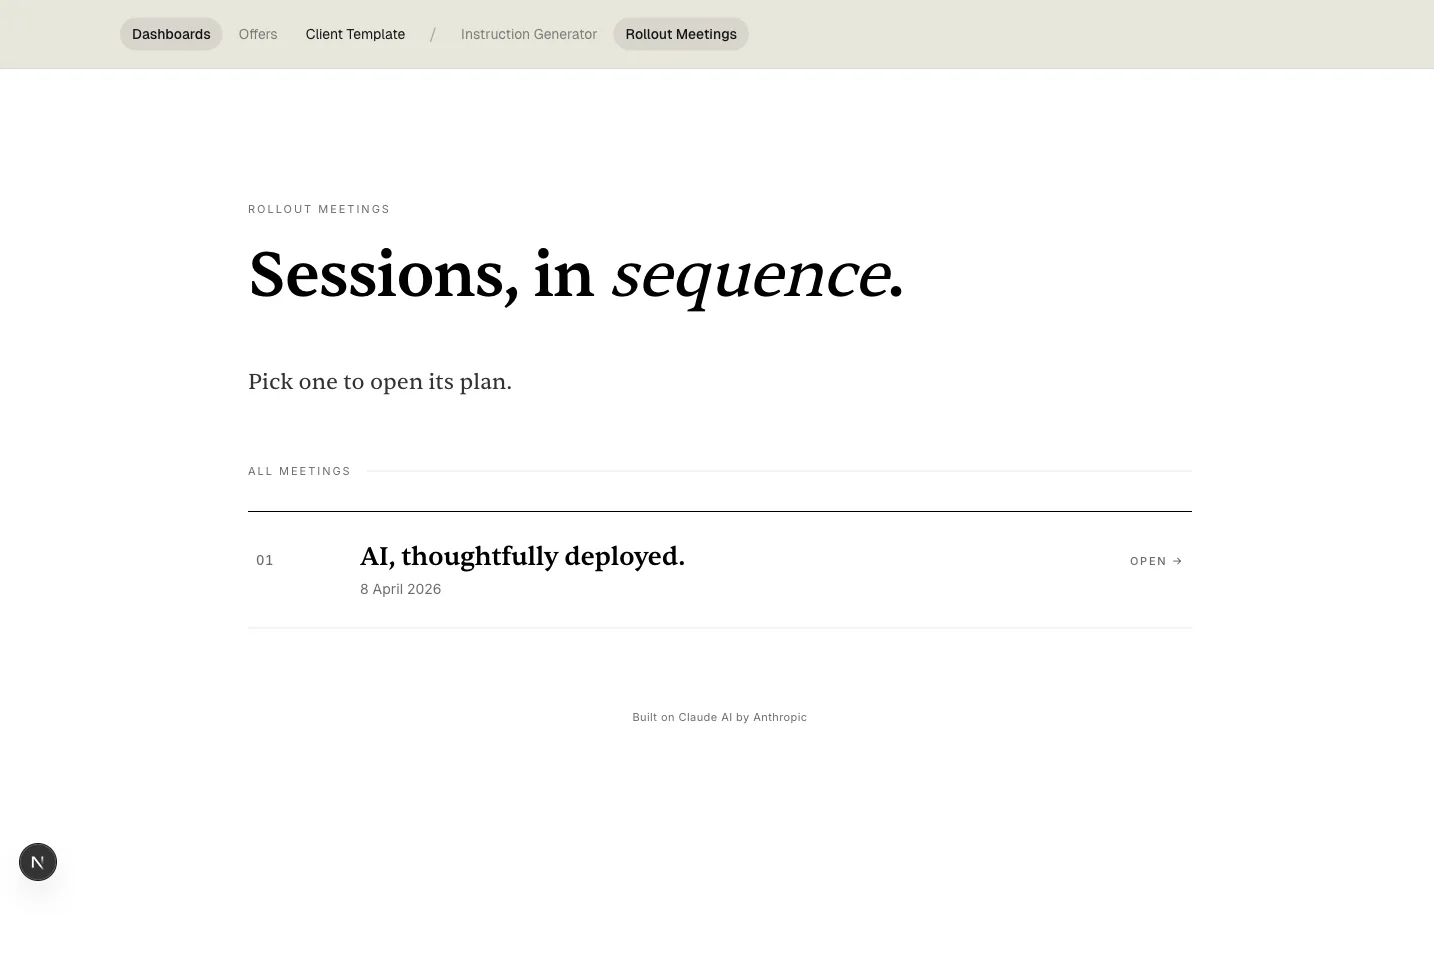
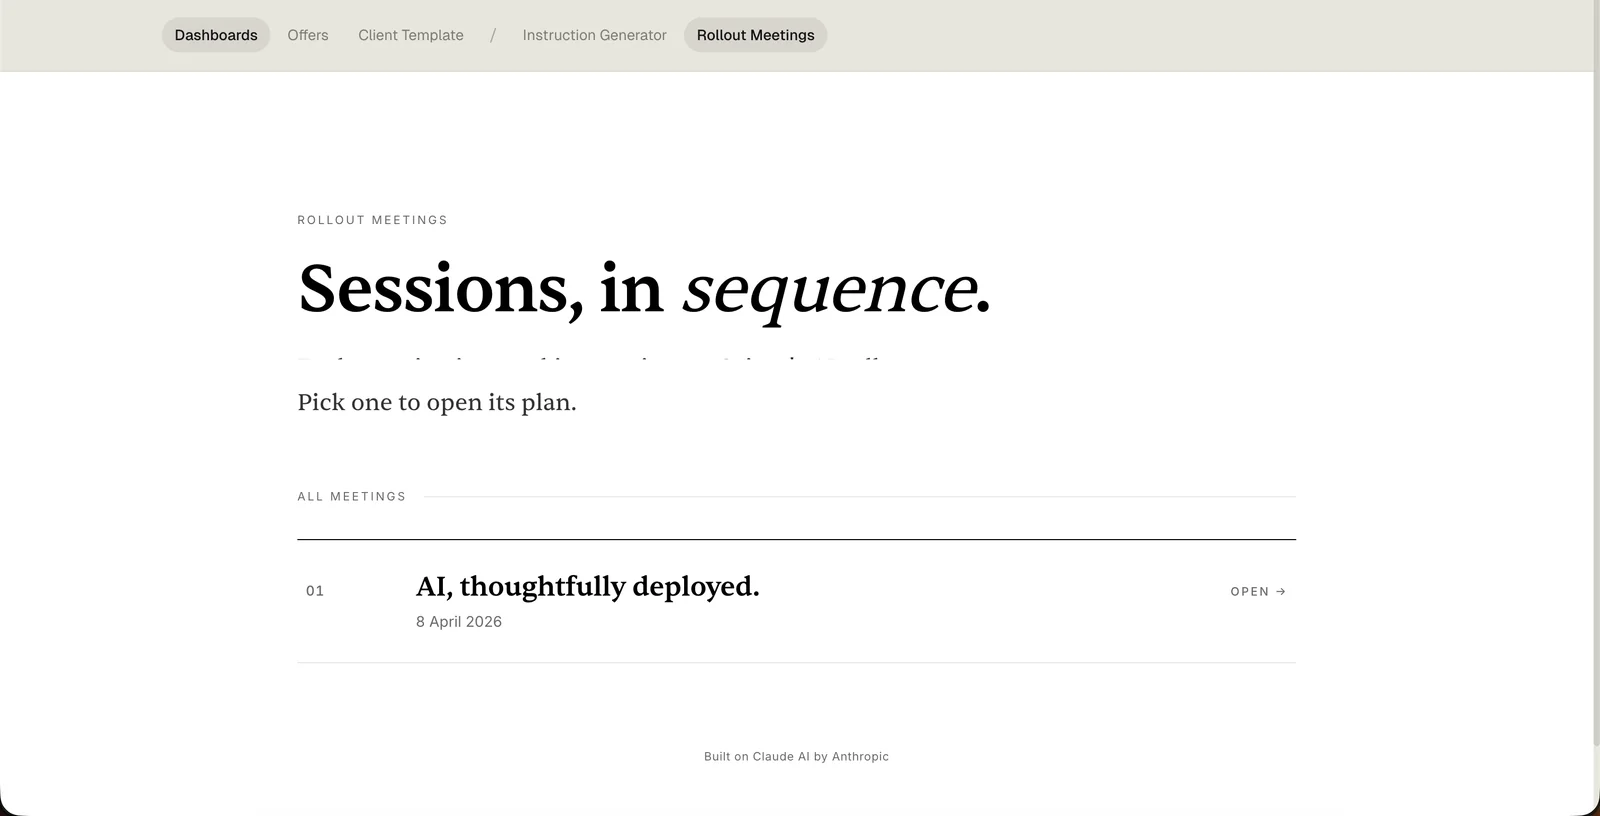
Blog: add dashboard zoom-out sequence to handover post
- Replace rollout-meetings.webp with a higher-resolution version (1600px,
  3x retina source) and tighten redactions on the Orient logo and the
  client mention in the lede.
- Add two new dashboard screenshots: dashboard-detail.webp (the rollout
  overview with stat cards and Skill Readiness chart) and
  dashboards-landing.webp (the all-clients index). All client names
  redacted to paper background.
- Restructure the closing "handover is the product" section to walk
  through the three zoom levels (meetings → rollout → all clients)
  before landing on the thesis paragraph.

diff --git a/src/app/blog/the-handover-plan/page.tsx b/src/app/blog/the-handover-plan/page.tsx
@@ -404,22 +404,70 @@ export default function Article() {
           <h2>The handover is the product</h2>
           <p>
             One last detail. The handover plan isn&apos;t a one-off Google
-            Doc. It lives inside our internal dashboard alongside every
-            other meeting we&apos;ve run for that client. Each entry is its
-            own working document. The index page has a single line at the
-            top that&apos;s the closest thing we have to a mission
-            statement: <em>Sessions, in sequence.</em>
+            Doc. It lives inside our internal dashboard, and the dashboard
+            has a few zoom levels worth showing. Bear with me &mdash; this
+            is the only place in the post I&apos;ll talk about the
+            machinery behind the meeting.
+          </p>
+          <p>
+            Zoom level one. Every client we run a handover for has their
+            own page that lists every meeting we&apos;ve had with them, in
+            order. Each row is its own working document. The headline at
+            the top is the closest thing we have to a mission statement:{" "}
+            <em>Sessions, in sequence.</em>
           </p>
 
           {/* eslint-disable-next-line @next/next/no-img-element */}
           <img
             src="/blog/rollout-meetings.webp"
-            alt="The Settle dashboard's Rollout Meetings index page, showing each handover meeting as its own entry in a sequenced list."
-            width={1434}
-            height={969}
+            alt="A client's Rollout Meetings index page inside the Settle dashboard. Headline: 'Sessions, in sequence.' One row listed: '01 — AI, thoughtfully deployed.' dated 8 April 2026."
+            width={1600}
+            height={816}
             loading="lazy"
             className="rounded-xl border border-[rgba(20,20,19,0.1)] my-10"
           />
+
+          <p>
+            Zoom level two. Each of those clients has a full rollout
+            dashboard underneath the meetings list. This is where we
+            track every use case, every project, every skill, every
+            blocker, every gap. The meeting plan I&apos;ve been describing
+            for the last 1,500 words is one tab in this thing. Everything
+            else &mdash; all the architecture and instruction work that
+            happens before handover day &mdash; lives here.
+          </p>
+
+          {/* eslint-disable-next-line @next/next/no-img-element */}
+          <img
+            src="/blog/dashboard-detail.webp"
+            alt="The Settle rollout dashboard for a client. Headline: 'AI Integration Rollout — Claude Enterprise deployment across 7 departments with 49 use cases.' Three large stat cards (20 Ready to Deploy, 23 Needs Work, 7 Blockers and Risks) above a Skill Readiness by Tier chart with four tier rows."
+            width={1600}
+            height={816}
+            loading="lazy"
+            className="rounded-xl border border-[rgba(20,20,19,0.1)] my-10"
+          />
+
+          <p>
+            Zoom level three. And those rollouts all live inside one
+            top-level index. New rollouts get added here. Old ones get
+            archived here. It&apos;s the &ldquo;all clients&rdquo; view I
+            open first thing in the morning to see what&apos;s in flight.
+          </p>
+
+          {/* eslint-disable-next-line @next/next/no-img-element */}
+          <img
+            src="/blog/dashboards-landing.webp"
+            alt="The Settle dashboards index. Headline: 'Dashboards, settled.' One client rollout listed below."
+            width={1600}
+            height={816}
+            loading="lazy"
+            className="rounded-xl border border-[rgba(20,20,19,0.1)] my-10"
+          />
+
+          <p>
+            I&apos;m showing you all of this so the next paragraph lands
+            properly.
+          </p>
 
           <p>
             For a long time I thought the product was the instructions.
